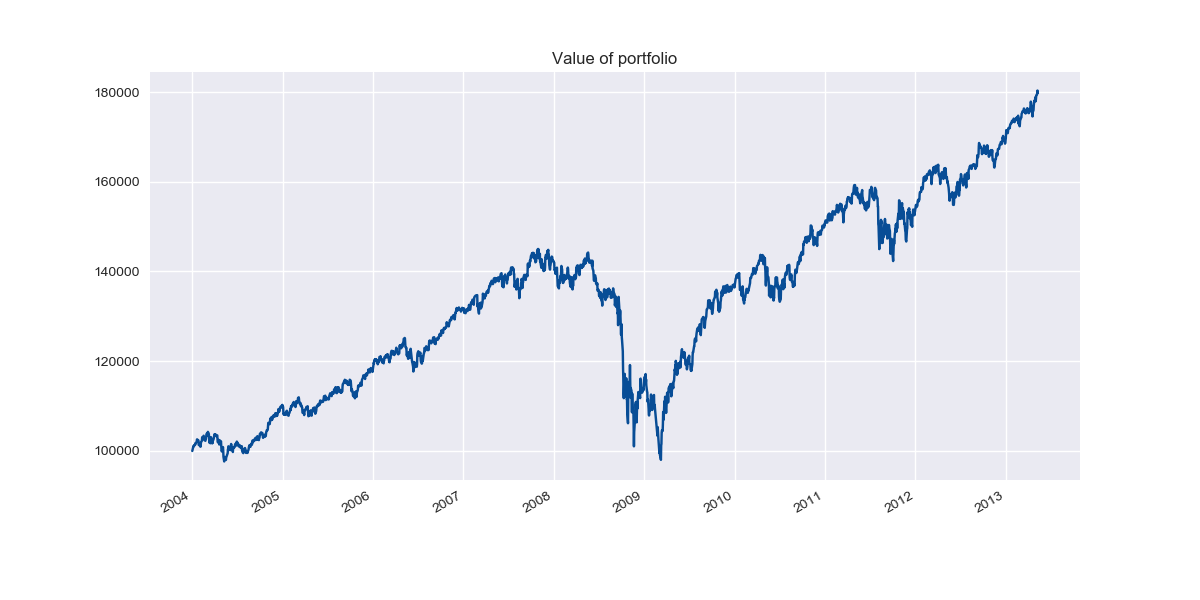
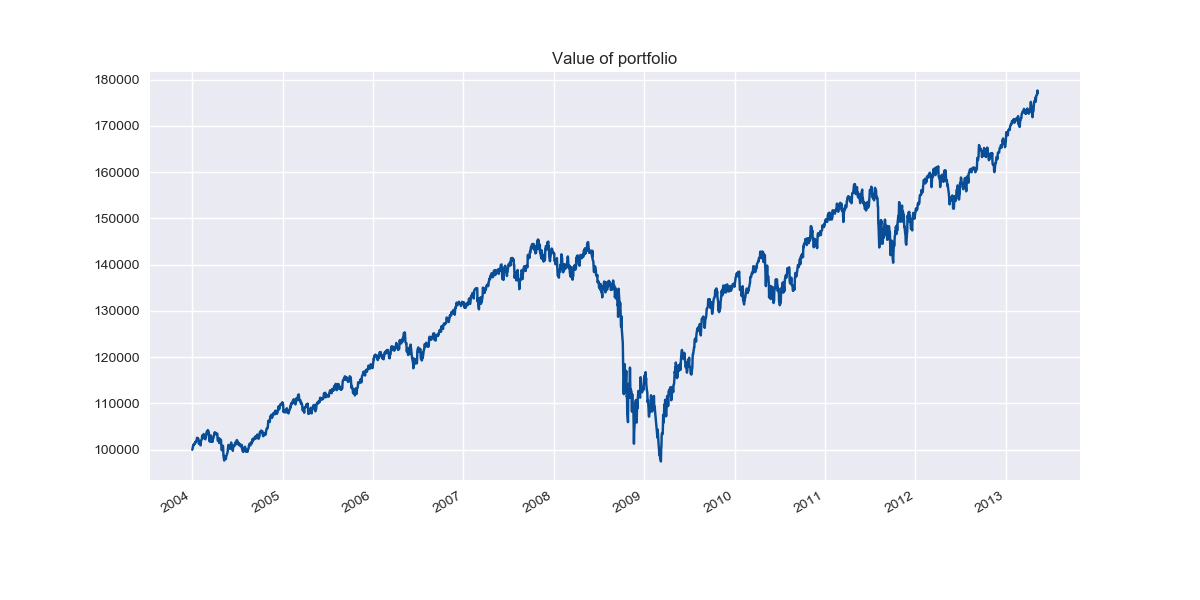
Fixed error in checking if tolerance had been breached

diff --git a/BCS.py b/BCS.py
@@ -45,11 +45,11 @@ if __name__ == '__main__':
     rebalance_df_alloc = buy_and_hold_df_alloc.copy()
 
     for date in dates[1:]:
-        if minkowski(rebalance_df_alloc.loc[date]) > ALLOWED_DRIFT:
-            rebalance_df.loc[date] = sum(rebalance_df.shift(1).loc[date] * (1 + returns_df.loc[date])) * target_weights
+        if minkowski(rebalance_df_alloc.shift(1).loc[date]) > ALLOWED_DRIFT:
+            rebalance_df.loc[date] = sum(rebalance_df.shift(1).loc[date].mul(1 + returns_df.loc[date])) * target_weights
         else:
-            rebalance_df.loc[date] = rebalance_df.shift(1).loc[date] * (1 + returns_df.loc[date])
-        rebalance_df_alloc.loc[date] = (rebalance_df.loc[date].div(rebalance_df.loc[date].sum(), axis=0))
+            rebalance_df.loc[date] = rebalance_df.shift(1).loc[date].mul(1 + returns_df.loc[date])
+        rebalance_df_alloc.loc[date] = (rebalance_df.loc[date].div(rebalance_df.loc[date].sum()))
 
     rebalance_df_returns = rebalance_df.sum(axis=1).pct_change(1)
 
@@ -105,7 +105,7 @@ if __name__ == '__main__':
     plt.close()
 
     rebalance_df.sum(axis=1).plot(
-        figsize=(12,6),
+        figsize=(12, 6),
         title='Value of portfolio',
         label='Value of portfolio'
     )
